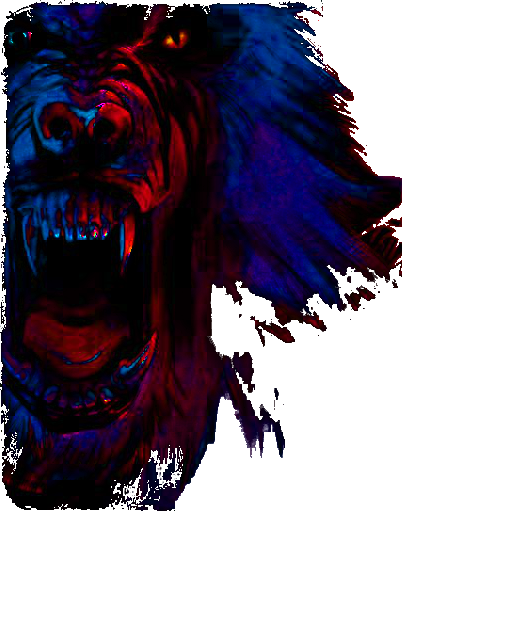
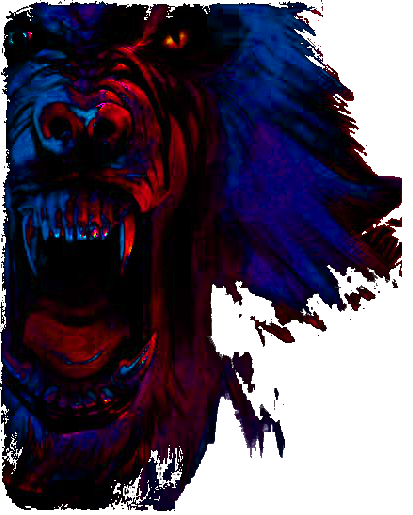
Smarter arrangement of menu items
Uses "display:flex" and % widths of the <li> tags to properly display
them no matter the screen size.

Also crops down the AlphaWolf.png and shrinks it on screen a bit.

diff --git a/index.html b/index.html
@@ -12,12 +12,12 @@
   <body>
   <img src="img/AlphaWolf.png" class="alphawolf-img"/>
   <header ng-controller="HeaderController">
-    <img class="logo" src="img/logo.jpg" />
     <ul class="menu">
-	  <li><a href="http://wherewolf.wikia.com" target="_blank">Wiki</a></li>
-	  <li ng-class="menuClass('calendar')"><a href="#calendar">Calendar</a></li>
-	  <li ng-class="menuClass('about')"><a href="#about">About us</a></li>
+      <li><img class="logo" src="img/logo.jpg" /></li>
 	  <li ng-class="menuClass('home')"><a href="#home">Home</a></li>
+	  <li ng-class="menuClass('about')"><a href="#about">About us</a></li>
+	  <li ng-class="menuClass('calendar')"><a href="#calendar">Calendar</a></li>
+	  <li><a href="http://wherewolf.wikia.com" target="_blank">Wiki</a></li>
 	</ul>
   </header>
   

diff --git a/stylesheets/styles.css b/stylesheets/styles.css
@@ -14,23 +14,25 @@ a {
 
 header {
   border-bottom: white 1px solid;
-  margin-left: 50px;
   height: 150px;
 }
 
 header .logo {
-  display: inline-block;
-  height: 100%;
+  width: 150px;
+  height: 150px;
 }
 
 .menu {
-  display: inline-block;
+  display: flex;
+  padding: 0;
 }
 
 .menu li {
   float: right;
-  display: inline-block;
-  padding: 15px 50px;
+  display: flex;
+  width: 20%;
+  align-items: flex-end;
+  justify-content: center;
 }
 
 .menu li.active a {
@@ -40,10 +42,18 @@ header .logo {
 .menu li a {
   text-decoration: none;
   font-size: 1em;
+  padding-bottom: 15px;
 }
 
 .alphawolf-img {
   float: left;
+  width: 200px;
+}
+
+@media screen and (max-width: 640px) {
+  .alphawolf-img {
+    display: none;
+  }
 }
 
 /* Main page */
